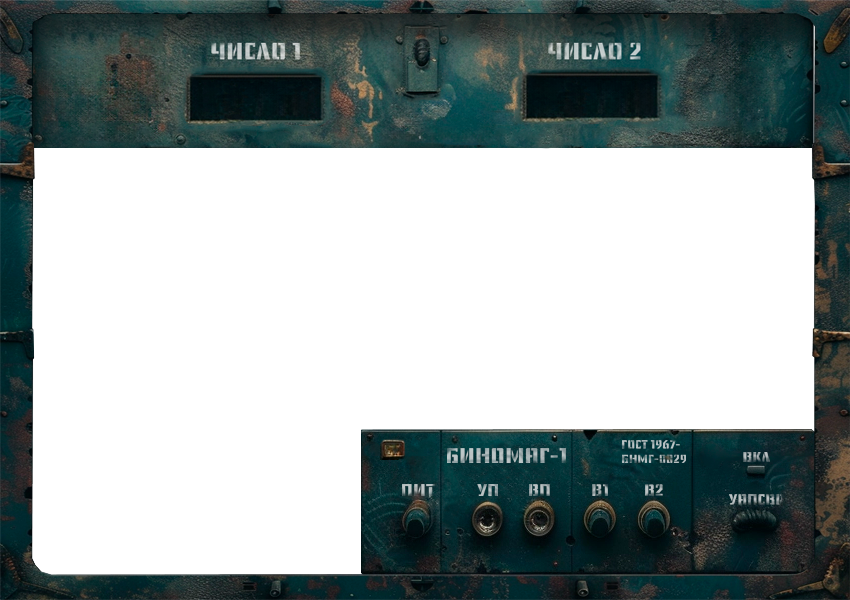
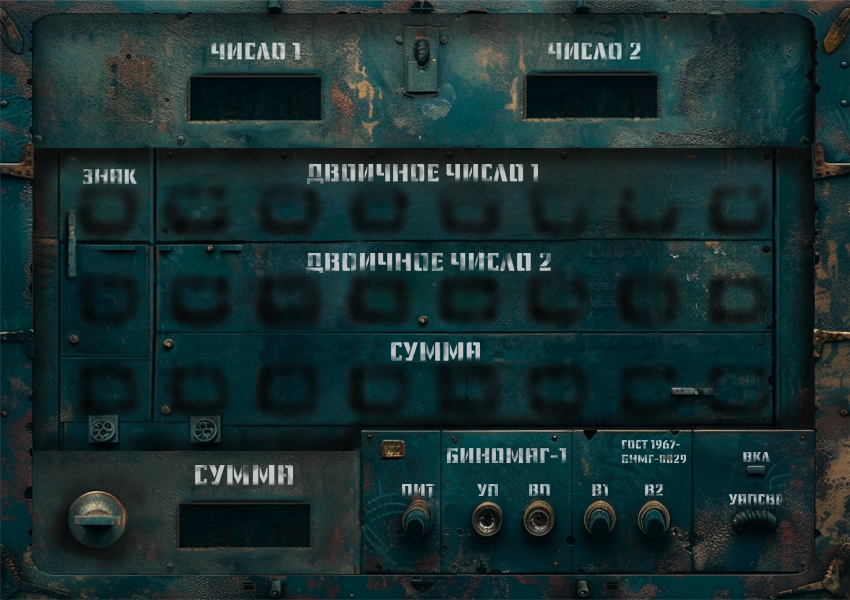
ready-to-use project changed ui done more syntax sugar and I have added more comments

diff --git a/resources/summator_ui.css b/resources/summator_ui.css
@@ -18,7 +18,8 @@ QPushButton:checked {
 }
 
 QLabel {
-    color: yellow;
+    color: green;
     font-size: 30px;
     font-family: 'LCD';
+    transparency: 0.3;
 }

diff --git a/widgets.py b/widgets.py
@@ -1,8 +1,6 @@
-from PyQt6.QtWidgets import QMainWindow, QPushButton, QWidget, QLabel
+from PyQt6.QtWidgets import QMainWindow, QPushButton, QWidget, QLabel, QGraphicsOpacityEffect
 from summator import summator, number_to_decimal
-from constants import BUTTON_HSIZE, BUTTON_WSIZE, WINDOW_HSIZE, WINDOW_WSIZE, BITNESS, BGROUP_LEFT_MARGIN, \
-    BGROUP_TOP_MARGIN, BUTTON_LEFT_MARGIN, BUTTON_TOP_MARGIN, LGROUP_LEFT_MARGIN, LGROUP_TOP_MARGIN, \
-    LABEL_LEFT_MARGIN, LABEL_HSIZE, LABEL_WSIZE
+from constants import *
 
 import database
 
@@ -11,8 +9,8 @@ class MainWindow(QMainWindow):
     def __init__(self):
         """ Инициализация класса окна приложения"""
         super().__init__()
-        self.setFixedSize(WINDOW_WSIZE, WINDOW_HSIZE)
-        self.setStyleSheet(open("resources/summator_ui.css").read())
+        self.setFixedSize(WINDOW_WSIZE, WINDOW_HSIZE)  # Фиксированное окно
+        self.setStyleSheet(open("resources/summator_ui.css").read())  # Подключение UI-css файла
 
         """ Настройка основного виджета"""
         widget = QWidget()
@@ -20,30 +18,36 @@ class MainWindow(QMainWindow):
         self.setCentralWidget(widget)
 
         """ Инициализация эл-тов интерфейса(кнопок и текста) """
-        self.labels, self.buttons = [], []
+        self.labels, self.buttons = [], []  # Матрица элементов интерфейса
         for i in range(3):
             self.buttons.append(list())
             self.labels.append(QLabel("0", self))
-            self.labels[i].setGeometry(LGROUP_LEFT_MARGIN + (i * LABEL_LEFT_MARGIN), LGROUP_TOP_MARGIN, LABEL_WSIZE,
-                                       LABEL_HSIZE)
+
+            labels_opacity = QGraphicsOpacityEffect()
+            labels_opacity.setOpacity(LCD_LABEL_OPACITY)  # Непрозрачность LCD-текста
+            self.labels[i].setGraphicsEffect(labels_opacity)
+
+            if i < 2:
+                self.labels[i].setGeometry(LGROUP_LEFT_MARGIN + (i * LABEL_LEFT_MARGIN), LGROUP_TOP_MARGIN, LABEL_WSIZE,
+                                           LABEL_HSIZE)
+            else:
+                self.labels[i].setGeometry(LGROUP_LEFT_MARGIN - 10, LGROUP_TOP_MARGIN + 425, LABEL_WSIZE, LABEL_HSIZE)
+
             for j in range(BITNESS):
-                print(f"Button{i}{j} POS: {BGROUP_LEFT_MARGIN + (j * BUTTON_LEFT_MARGIN + BUTTON_WSIZE)}, "
-                      f"{BGROUP_TOP_MARGIN + (i * BUTTON_TOP_MARGIN)} SIZE: {BUTTON_WSIZE, BUTTON_HSIZE}")
                 self.buttons[i].append(QPushButton(self))
                 self.buttons[i][j].setGeometry(BGROUP_LEFT_MARGIN + (j * BUTTON_LEFT_MARGIN + BUTTON_WSIZE),
                                                BGROUP_TOP_MARGIN + (i * BUTTON_TOP_MARGIN), BUTTON_WSIZE, BUTTON_HSIZE)
-                self.buttons[i][j].setCheckable(True)
                 if i <= 1:
+                    self.buttons[i][j].setCheckable(True)  # Два ряда кнопок можно прожать
                     self.buttons[i][j].clicked.connect(self.change_button_image)
 
     def change_button_image(self):
-        """ QEvent на нажатие по первым двум рядам кнопок
-            Изменяет значения на кнопке, а так же обновляет результаты вычислений
+        """ QEvent на нажатие по первым двум рядам кнопок.
+            Изменяет изображение на кнопке, а так же обновляет результаты вычислений.
         """
-        # noinspection PyTypeChecker
-        sender: QPushButton = self.sender()
+        sender: QPushButton = self.sender()  # Хранение объекта, вызвавшего метод.
 
-        """ Обработка QEvent на QPushButton """
+        """ Обновление значений в БД """
         if sender in self.buttons[0]:
             index = self.buttons[0].index(sender)
             database.first_numbers[index] = sender.isChecked()
@@ -54,7 +58,9 @@ class MainWindow(QMainWindow):
         """ Вычисление результата и отображение на экране """
         database.third_numbers = summator(database.first_numbers, database.second_numbers)
         for i in range(BITNESS):
-            self.buttons[2][i].setChecked(database.third_numbers[i])
+            self.buttons[2][i].setStyleSheet('QPushButton {background-image:url(' +
+                                             f"resources/button_{database.third_numbers[i]}.png" + ');}')
+
         output_numbers = list(map(lambda x: number_to_decimal(x), [database.first_numbers,
                                                                    database.second_numbers,
                                                                    database.third_numbers]))

diff --git a/summator.py b/summator.py
@@ -2,12 +2,16 @@ from constants import NEGATIVE_ONE, BITNESS
 
 
 def summator(first_number: list, second_number: list, passing=0, index=7) -> list:
-    """ Сумматор двух чисел в двоичной СС, представленных в виде списка
+    """ Сумматор двух чисел в двоичной СС.
+        :param first_number: Первое двоичное число в виде списка.
+        :param second_number: Второе двоичное число в виде списка.
+        :param passing: Переход с предыдущего разряда.
+        :param index: Индекс элемента числа.
         :return output_number (list)
     """
     if index < 0:
         return []
-    x, y, p = first_number[index], second_number[index], passing
+    x, y, p = first_number[index], second_number[index], passing  # Элементы ДЧ и переход
     f = int((p and ((not x and not y) or (x and y))) or (
             not p and ((not x and y) or (x and not y))))  # МДНФ p(~x~y V xy) V ~p(~xy V x~y)
     p = int((x and y) or (x and p) or (y and p))  # МДНФ xy V xp V yp
@@ -15,7 +19,8 @@ def summator(first_number: list, second_number: list, passing=0, index=7) -> lis
 
 
 def number_to_decimal(number_list: list) -> int:
-    """ Функция, которая переводит двоичные числа, представленные в списках, в десятичное число
+    """ Функция, которая переводит двоичное число в десятичное число.
+        :param number_list: Двоичное число в виде списка.
         :return output_number (int)
     """
     output_number = 0

diff --git a/constants.py b/constants.py
@@ -4,19 +4,19 @@ WINDOW_WSIZE = 850
 BUTTON_HSIZE = 41
 BUTTON_WSIZE = 53
 
-BGROUP_LEFT_MARGIN = 5
-BGROUP_TOP_MARGIN = 175
+BGROUP_LEFT_MARGIN = 30
+BGROUP_TOP_MARGIN = 190
 BUTTON_LEFT_MARGIN = 90
 BUTTON_TOP_MARGIN = 90
 
 LABEL_WSIZE = 100
 LABEL_HSIZE = 30
 
-LGROUP_LEFT_MARGIN = 225
+LGROUP_LEFT_MARGIN = 200
 LGROUP_TOP_MARGIN = 85
-LABEL_LEFT_MARGIN = 330
+LABEL_LEFT_MARGIN = 340
 
-
+LCD_LABEL_OPACITY = 0.8
 
 BITNESS = 8
 NEGATIVE_ONE = [1] * 8
